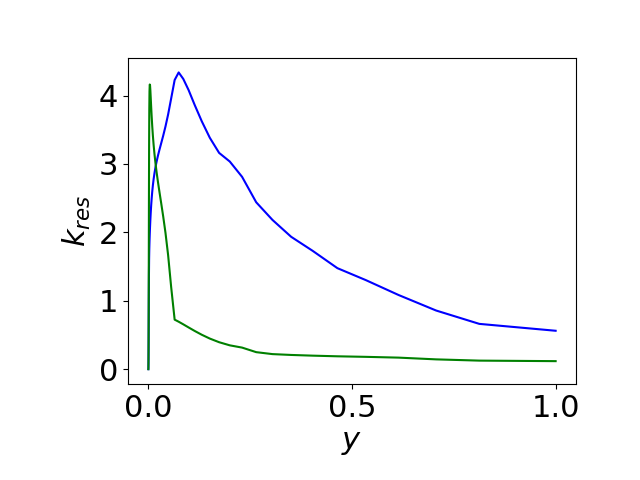
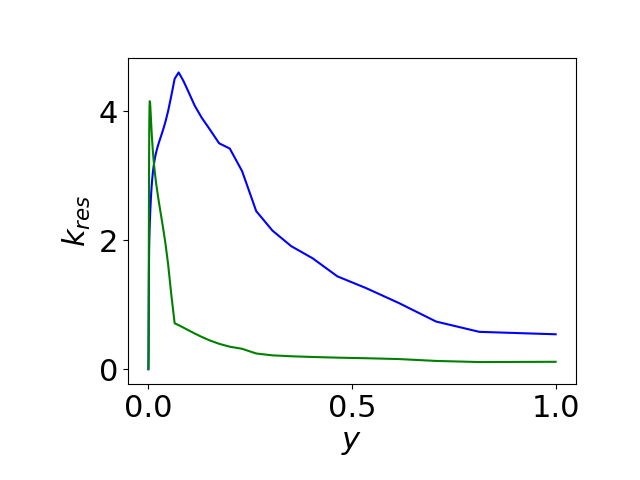
t5 done sort of

diff --git a/pl_uvw_IDD_PANS.py b/pl_uvw_IDD_PANS.py
@@ -18,7 +18,7 @@ nk=34
 viscos=1./5200.
 
 # loop over nfiles
-nfiles=16
+nfiles=3
 #initialize fields
 u3d_nfiles=np.zeros((ni,nj,nk,nfiles+1))
 v3d_nfiles=np.zeros((ni,nj,nk,nfiles+1))
@@ -167,3 +167,31 @@ plt.xlabel("$y$")
 plt.savefig('kres.png')
 
 plt.show()
+
+# T.5
+
+
+dudx, dudy, dudz = np.gradient(u3d, dx, y, dz)
+dvdx, dvdy, dvdz = np.gradient(v3d, dx, y, dz)
+
+C_mu = 0.09
+f_mu = 0.4
+nu_t = C_mu*f_mu*(te3d[:,1:,:]**2)/eps3d[:,1:,:]
+
+tau_12 = -2*nu_t*(dudy[:,1:,:] + dvdx[:,1:,:])
+
+tau_12_mean=np.mean(tau_12, axis=(0,2))
+
+fig1,ax1 = plt.subplots()
+plt.subplots_adjust(left=0.20,bottom=0.20)
+plt.plot(y[1:],tau_12_mean,'b-')
+plt.plot(y[1:],uvmean1[1:],'g-')
+plt.ylabel("stress")
+plt.xlabel("y")
+plt.legend(["modeled","resolved"])
+plt.savefig('shear_stress.png')
+
+plt.show()
+
+# T.6
+
